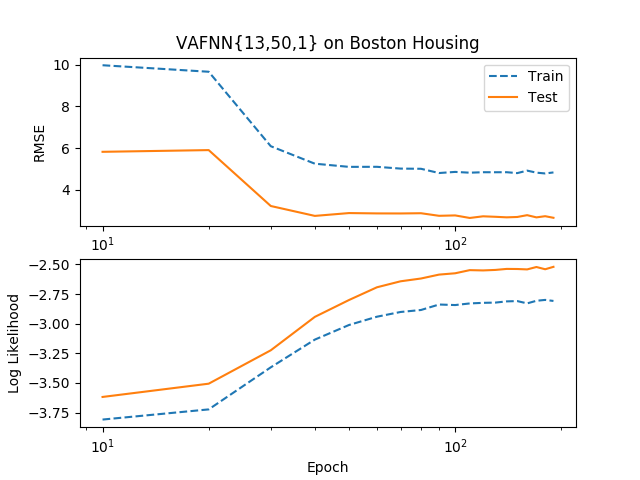
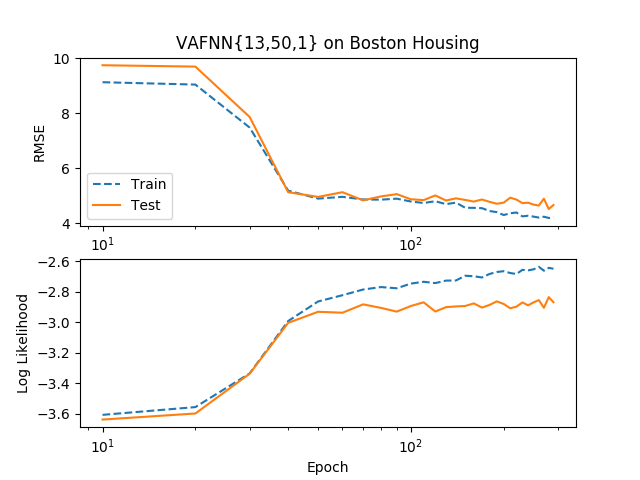
update VAF

diff --git a/expt_vafnn.py b/expt_vafnn.py
@@ -67,10 +67,10 @@ def variational_activation_functions_neural_networks(
                 f = tf.matmul(w, f)/np.sqrt(n_basis*1.)
                 f = tf.concat([tf.cos(f+c1), tf.sin(f+c2)], 2)+d
                 continue
-            w_mu = tf.zeros([1, layer_sizes[i+1], n_basis*2])
+            w_mu = tf.zeros([1, layer_sizes[i+1], n_basis])
             w = zs.Normal('w'+str(i), w_mu, std=1.,
                         n_samples=n_samples, group_ndims=2)
-            w = tf.tile(w, [1, tf.shape(X)[0], 1, 1])
+            w = tf.tile(w, [1, tf.shape(X)[0], 1, 2])
             f = tf.matmul(w, f)/tf.sqrt(layer_sizes[i]*1.)
         y_mean = tf.squeeze(f, [2, 3])
         y_logstd = tf.get_variable('y_logstd', shape=[],
@@ -93,10 +93,10 @@ def mean_field_variational(layer_sizes, n_basis, n_samples):
                         n_samples=n_samples, group_ndims=2)
             else:
                 w_mean = tf.get_variable('w_mean_'+str(i),
-                    shape=[1, layer_sizes[i+1], n_basis*2],
+                    shape=[1, layer_sizes[i+1], n_basis],
                     initializer=tf.constant_initializer(0.))
                 w_logstd = tf.get_variable('w_logstd_'+str(i),
-                    shape=[1, layer_sizes[i+1], n_basis*2],
+                    shape=[1, layer_sizes[i+1], n_basis],
                     initializer=tf.constant_initializer(0.))
                 w = zs.Normal('w' + str(i), w_mean, logstd=w_logstd,
                         n_samples=n_samples, group_ndims=2)
@@ -222,11 +222,11 @@ def run_vafnn_experiment(dataset_name, train_test_set, **args):
                                 X: X_batch, y: y_batch})
                     lbs.append(lb)
                 time_epoch += time.time()
-                print('Epoch {} ({:.1f}s, {}): Lower bound = {}'.format(
+                print('Epoch {} ({:.1f}s, {}): Lower bound = {:.8f}'.format(
                     epoch, time_epoch, count_over_train, np.mean(lbs)))
                 if(len(lb_window)>=early_stop):
                     del lb_window[0]
-                    if(max_lb>np.max(lb_window)+2*np.std(lb_window)):
+                    if(max_lb>np.max(lb_window)+np.std(lb_window)):
                         count_over_train += 1
                 lb_window.append(np.mean(lbs))
                 if(max_lb < np.mean(lbs)):
@@ -258,11 +258,11 @@ def run_vafnn_experiment(dataset_name, train_test_set, **args):
                         fold_train_lbs.append(train_lb)
                         fold_train_mses.append(train_mse)
                         fold_train_lls.append(train_ll)
-                    print('>>> TRAIN ({:.1f}s) - best_lb = {}'.format(
+                    print('>>> TRAIN ({:.1f}s) - best_lb = {:.8f}'.format(
                         time_train, best_lb))
-                    print('>> Train lower bound = {}'.format(train_lb))
-                    print('>> Train rmse = {}'.format(np.sqrt(train_mse)))
-                    print('>> Train log_likelihood = {}'.format(train_ll))
+                    print('>> Train lower bound = {:.8f}'.format(train_lb))
+                    print('>> Train rmse = {:.8f}'.format(np.sqrt(train_mse)))
+                    print('>> Train log_likelihood = {:.8f}'.format(train_ll))
                     lbs, mses, lls = [], [], []
                     time_test = -time.time()
                     t_iters = int(np.floor(X_test.shape[0] / float(batch_size)))
@@ -291,9 +291,9 @@ def run_vafnn_experiment(dataset_name, train_test_set, **args):
                         fold_test_mses.append(test_mse)
                         fold_test_lls.append(test_ll)
                     print('>>> TEST ({:.1f}s)'.format(time_test))
-                    print('>> Test lower bound = {}'.format(test_lb))
-                    print('>> Test rmse = {}'.format(np.sqrt(test_mse)))
-                    print('>> Test log_likelihood = {}'.format(test_ll))
+                    print('>> Test lower bound = {:.8f}'.format(test_lb))
+                    print('>> Test rmse = {:.8f}'.format(np.sqrt(test_mse)))
+                    print('>> Test log_likelihood = {:.8f}'.format(test_ll))
                     if(best_lb<train_lb):
                         count_over_train = 0
                         best_lb = train_lb
@@ -333,8 +333,8 @@ def run_vafnn_experiment(dataset_name, train_test_set, **args):
             else:
                 test_mse, test_ll = min_mse, max_ll
             print('>>> BEST TEST')
-            print('>> Test rmse = {}'.format(np.sqrt(test_mse)))
-            print('>> Test log_likelihood = {}'.format(test_ll))
+            print('>> Test rmse = {:.8f}'.format(np.sqrt(test_mse)))
+            print('>> Test log_likelihood = {:.8f}'.format(test_ll))
             eval_mses.append(test_mse)
             eval_lls.append(test_ll)
         if(plot_err):
@@ -349,14 +349,14 @@ def run_vafnn_experiment(dataset_name, train_test_set, **args):
                 np.sqrt(fold_test_mses), label='Test')
             plt.legend(loc='lower left')
             plt.xlabel('Epoch')
-            plt.ylabel('RMSE')
+            plt.ylabel('RMSE {:.4f}'.format(np.sqrt(test_mse)))
             
             plt.subplot(2, 1, 2)
             test_max_epochs = (np.arange(len(fold_train_lls))+1)*check_freq
             plt.semilogx(test_max_epochs, fold_train_lls, '--', label='Train')
             plt.semilogx(test_max_epochs, fold_test_lls, label='Test')
             plt.xlabel('Epoch')
-            plt.ylabel('Log Likelihood')
+            plt.ylabel('Log Likelihood {:.4f}'.format(test_ll))
             if not os.path.exists('./plots/'):
                 os.makedirs('./plots/')
             plt.savefig('./plots/'+model_name+'_'+problem_name+'.png')
@@ -368,8 +368,8 @@ def run_vafnn_experiment(dataset_name, train_test_set, **args):
         test_mses.append(np.array(fold_test_mses))
         test_lls.append(np.array(fold_test_lls))
     print('>>> OVERALL TEST')
-    print('>> Overall Test rmse = {} +/- {}'.format(
+    print('>> Overall Test rmse = {:.8f} +/- {:.8f}'.format(
         np.sqrt(np.mean(eval_mses)), 1.96*np.sqrt(np.std(eval_mses))))
-    print('>> Overall Test log_likelihood = {} +/- {}'.format(
+    print('>> Overall Test log_likelihood = {:.8f} +/- {:.8f}'.format(
         np.sqrt(np.mean(eval_lls)), 1.96*np.sqrt(np.std(eval_lls))))
     return eval_mses, eval_lls

diff --git a/expt_bnn.py b/expt_bnn.py
@@ -153,6 +153,7 @@ def run_bnn_experiment(dataset_name, train_test_set, **args):
         for i in params:
             print(i.name, i.get_shape())
     
+    
         # Run the inference
         lb_window, count_over_train = [], 0
         fold_train_lbs, fold_train_mses, fold_train_lls = [], [], []
@@ -178,11 +179,11 @@ def run_bnn_experiment(dataset_name, train_test_set, **args):
                                 X: X_batch, y: y_batch})
                     lbs.append(lb)
                 time_epoch += time.time()
-                print('Epoch {} ({:.1f}s, {}): Lower bound = {}'.format(
+                print('Epoch {} ({:.1f}s, {}): Lower bound = {:.8f}'.format(
                     epoch, time_epoch, count_over_train, np.mean(lbs)))
                 if(len(lb_window)>=early_stop):
                     del lb_window[0]
-                    if(max_lb>np.max(lb_window)+2*np.std(lb_window)):
+                    if(max_lb>np.max(lb_window)+np.std(lb_window)):
                         count_over_train += 1
                 lb_window.append(np.mean(lbs))
                 if(max_lb < np.mean(lbs)):
@@ -206,15 +207,6 @@ def run_bnn_experiment(dataset_name, train_test_set, **args):
                     train_lb, train_mse, train_ll =\
                         np.mean(lbs), np.mean(mses), np.mean(lls)
                     time_train += time.time()
-                    if(max_lb>train_mse/np.exp(train_ll)):
-                        count_over_train = 0
-                        max_lb = train_mse/np.exp(train_ll)
-                        saver = tf.train.Saver()
-                        if not os.path.exists('./trained/'):
-                            os.makedirs('./trained/')
-                        saver.save(sess, './trained/'+model_name+'_'+problem_name)
-                    else:
-                        count_over_train += 1
                     if(len(fold_train_lbs)==0):
                         fold_train_lbs.append(train_lb)
                         fold_train_mses.append(train_mse)
@@ -223,10 +215,11 @@ def run_bnn_experiment(dataset_name, train_test_set, **args):
                         fold_train_lbs.append(train_lb)
                         fold_train_mses.append(train_mse)
                         fold_train_lls.append(train_ll)
-                    print('>>> TRAIN ({:.1f}s) - best_lb = {}'.format(time_train, best_lb))
-                    print('>> Train lower bound = {}'.format(train_lb))
-                    print('>> Train rmse = {}'.format(np.sqrt(train_mse)))
-                    print('>> Train log_likelihood = {}'.format(train_ll))
+                    print('>>> TRAIN ({:.1f}s) - best_lb = {:.8f}'.format(
+                        time_train, best_lb))
+                    print('>> Train lower bound = {:.8f}'.format(train_lb))
+                    print('>> Train rmse = {:.8f}'.format(np.sqrt(train_mse)))
+                    print('>> Train log_likelihood = {:.8f}'.format(train_ll))
                     lbs, mses, lls = [], [], []
                     time_test = -time.time()
                     t_iters = int(np.floor(X_test.shape[0] / float(batch_size)))
@@ -255,9 +248,9 @@ def run_bnn_experiment(dataset_name, train_test_set, **args):
                         fold_test_mses.append(test_mse)
                         fold_test_lls.append(test_ll)
                     print('>>> TEST ({:.1f}s)'.format(time_test))
-                    print('>> Test lower bound = {}'.format(test_lb))
-                    print('>> Test rmse = {}'.format(np.sqrt(test_mse)))
-                    print('>> Test log_likelihood = {}'.format(test_ll))
+                    print('>> Test lower bound = {:.8f}'.format(test_lb))
+                    print('>> Test rmse = {:.8f}'.format(np.sqrt(test_mse)))
+                    print('>> Test log_likelihood = {:.8f}'.format(test_ll))
                     if(best_lb<train_lb):
                         count_over_train = 0
                         best_lb = train_lb
@@ -297,8 +290,8 @@ def run_bnn_experiment(dataset_name, train_test_set, **args):
             else:
                 test_mse, test_ll = min_mse, max_ll
             print('>>> BEST TEST')
-            print('>> Test rmse = {}'.format(np.sqrt(test_mse)))
-            print('>> Test log_likelihood = {}'.format(test_ll))
+            print('>> Test rmse = {:.8f}'.format(np.sqrt(test_mse)))
+            print('>> Test log_likelihood = {:.8f}'.format(test_ll))
             eval_mses.append(test_mse)
             eval_lls.append(test_ll)
         if(plot_err):
@@ -313,17 +306,14 @@ def run_bnn_experiment(dataset_name, train_test_set, **args):
                 np.sqrt(fold_test_mses), label='Test')
             plt.legend(loc='lower left')
             plt.xlabel('Epoch')
-            plt.ylabel('RMSE')
+            plt.ylabel('RMSE {:.4f}'.format(np.sqrt(test_mse)))
             
             plt.subplot(2, 1, 2)
             test_max_epochs = (np.arange(len(fold_train_lls))+1)*check_freq
             plt.semilogx(test_max_epochs, fold_train_lls, '--', label='Train')
             plt.semilogx(test_max_epochs, fold_test_lls, label='Test')
             plt.xlabel('Epoch')
-            plt.ylabel('Log Likelihood')
-            if not os.path.exists('./plots/'):
-                os.makedirs('./plots/')
-            plt.savefig('./plots/'+model_name+'_'+problem_name+'.png')
+            plt.ylabel('Log Likelihood {:.4f}'.format(test_ll))
             plt.close()
         train_lbs.append(np.array(fold_train_lbs))
         train_mses.append(np.array(fold_train_mses))
@@ -332,8 +322,8 @@ def run_bnn_experiment(dataset_name, train_test_set, **args):
         test_mses.append(np.array(fold_test_mses))
         test_lls.append(np.array(fold_test_lls))
     print('>>> OVERALL TEST')
-    print('>> Overall Test rmse = {} +/- {}'.format(
+    print('>> Overall Test rmse = {:.8f} +/- {:.8f}'.format(
         np.sqrt(np.mean(eval_mses)), 1.96*np.sqrt(np.std(eval_mses))))
-    print('>> Overall Test log_likelihood = {} +/- {}'.format(
+    print('>> Overall Test log_likelihood = {:.8f} +/- {:.8f}'.format(
         np.sqrt(np.mean(eval_lls)), 1.96*np.sqrt(np.std(eval_lls))))
     return eval_mses, eval_lls

diff --git a/boston_housing/training.py b/boston_housing/training.py
@@ -67,8 +67,8 @@ if __name__ == '__main__':
         'plot_err': True,
         'lb_samples': 20,
         'll_samples': 100,
+        'n_basis': 100,
         'n_hiddens': [50],
-        'drop_rate': 0.5,
         'batch_size': 10,
         'learn_rate': 1e-3,
         'max_epochs': 2000,
@@ -98,13 +98,13 @@ if __name__ == '__main__':
             >> Test rmse = 4.66435121
             >> Test log_likelihood = -2.82705879
     """
-    # run_bnn_experiment('Boston Housing', load_data(5), **training_settings)
+    run_bnn_experiment('Boston Housing', load_data(5), **training_settings)
     
     """
     Log Result of VAFNN{13,50,1}
         1st Batch
-            >> Test rmse = 2.738891839981079
-            >> Test log_likelihood = -2.5407567024230957
+            >> Test rmse = 2.5582997798919678
+            >> Test log_likelihood = -2.48785662651062
         2nd Batch
             >> Test rmse = 4.686698913574219
             >> Test log_likelihood = -2.836054563522339
@@ -115,8 +115,6 @@ if __name__ == '__main__':
             >> Test rmse = 7.8750457763671875
             >> Test log_likelihood = -3.321596145629883
         5th Batch
-            >>> BEST TEST
-            >> Test lower bound = -479.79803466796875
             >> Test rmse = 3.3094685077667236
             >> Test log_likelihood = -2.7854971885681152
     """

diff --git a/KEGG/training.py b/KEGG/training.py
@@ -63,14 +63,14 @@ if __name__ == '__main__':
 
     training_settings = {
         'plot_err': True,
-        'lb_samples': 10,
-        'll_samples': 50,
-        'n_hiddens': [100, 50, 2],
-        'drop_rate': 0.5,
-        'batch_size': 50,
-        'learn_rate': 1e-2,
+        'lb_samples': 20,
+        'll_samples': 100,
+        'n_basis': 100,
+        'n_hiddens': [50],
+        'batch_size': 10,
+        'learn_rate': 1e-3,
         'max_epochs': 2000,
-        'early_stop': 20,
+        'early_stop': 10,
         'check_freq': 10,
     }
     

diff --git a/protein/training.py b/protein/training.py
@@ -63,14 +63,14 @@ if __name__ == '__main__':
 
     training_settings = {
         'plot_err': True,
-        'lb_samples': 10,
+        'lb_samples': 20,
         'll_samples': 100,
-        'n_hiddens': [100, 50, 2],
-        'drop_rate': 0.3,
-        'batch_size': 50,
-        'learn_rate': 1e-2,
+        'n_basis': 100,
+        'n_hiddens': [50],
+        'batch_size': 10,
+        'learn_rate': 1e-3,
         'max_epochs': 2000,
-        'early_stop': 20,
+        'early_stop': 10,
         'check_freq': 10,
     }
     

diff --git a/parkinsons/training.py b/parkinsons/training.py
@@ -65,12 +65,12 @@ if __name__ == '__main__':
         'plot_err': True,
         'lb_samples': 20,
         'll_samples': 100,
-        'n_hiddens': [80, 40, 2],
-        'drop_rate': 0.5,
-        'batch_size': 50,
-        'learn_rate': 1e-2,
+        'n_basis': 100,
+        'n_hiddens': [50],
+        'batch_size': 10,
+        'learn_rate': 1e-3,
         'max_epochs': 2000,
-        'early_stop': 20,
+        'early_stop': 10,
         'check_freq': 10,
     }
     

diff --git a/skill_craft/training.py b/skill_craft/training.py
@@ -65,12 +65,12 @@ if __name__ == '__main__':
         'plot_err': True,
         'lb_samples': 20,
         'll_samples': 100,
-        'n_hiddens': [60, 30, 6],
-        'drop_rate': 0.5,
-        'batch_size': 50,
+        'n_basis': 100,
+        'n_hiddens': [50],
+        'batch_size': 10,
         'learn_rate': 1e-3,
         'max_epochs': 2000,
-        'early_stop': 20,
+        'early_stop': 10,
         'check_freq': 10,
     }
     

diff --git a/KEGGU/training.py b/KEGGU/training.py
@@ -65,9 +65,9 @@ if __name__ == '__main__':
         'plot_err': True,
         'lb_samples': 20,
         'll_samples': 100,
+        'n_basis': 100,
         'n_hiddens': [50],
-        'drop_rate': 0.5,
-        'batch_size': 50,
+        'batch_size': 10,
         'learn_rate': 1e-3,
         'max_epochs': 2000,
         'early_stop': 10,
